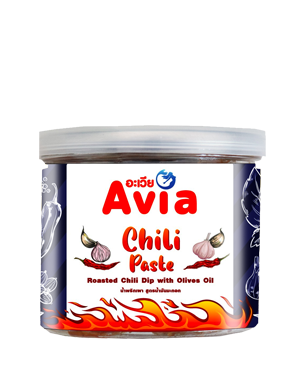
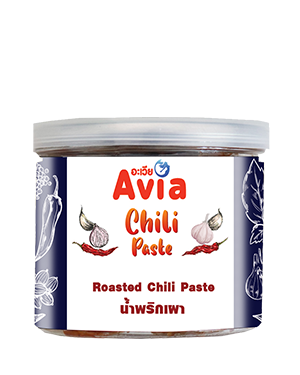
1

Changed region(s): [[0.09, 0.2933, 0.9, 0.9093]]

diff --git a/app/components/home/ProductType.tsx b/app/components/home/ProductType.tsx
@@ -34,16 +34,21 @@ const productTypes: ProductTypeData[] = [
       { name: "พริกแกงเผ็ด Red Curry Paste", img: "/Product-curry-paste-3.png" },
       { name: "พริกแกงมัสมั่น Masman Curry Paste", img: "/Product-curry-paste-4.png" },
       { name: "พริกแกงเขียวหวาน Green Curry Paste", img: "/Product-curry-paste-5.png" },
+      { name: "พริกแกงต้มยำ Tom Yum Curry Paste ", img: "/Product-curry-paste-6.png" },
+
     ],
   },
   {
-    th: "น้ำจิ้ม",
+    th: "น้ำจิ้ม-ซอส",
     type: "SAUCE",
     cover: "/TyeProduct-2.png",
     items: [
       { name: "น้ำจิ้ม แจ่ว Thai Dried Chili Dipping Sauce (Jaew)", img: "/Product-soure-1.png" },
       { name: "น้ำจิ้ม ลูกชิ้น Meatball Dipping Sauce", img: "/Product-soure-2.png" },
       { name: "น้ำจิ้ม ซีฟู๊ด Seafood Dipping Sauce", img: "/Product-soure-3.png" },
+      { name: "ซอส ผัดไทย Pad Thai Sauce", img: "/Product-soure-4.png" },
+      { name: "ซอส กะเพรา Kaprao Sauce", img: "/Product-soure-5.png" },
+      { name: "ซอสปรุงรสอาหารไทย Avia Thai Sauce", img: "/Product-soure-6.png" },
 
     ],
   },
@@ -52,13 +57,15 @@ const productTypes: ProductTypeData[] = [
     type: "CHILI SAUCE",
     cover: "/TyeProduct-3.png",
     items: [
-      { name: "น้ำพริกนรก Spicy Chili Dip", img: "/Product-banner-chili-01.png" },
-      { name: "น้ำพริกเผา สูตรน้ำมันมะกอก Roasted Chili Dip With Olive Oil", img: "/Product-banner-chili-02.png" },
+      { name: "น้ำพริกตาแดง เจ Vegan Red Chili Dip", img: "/Product-banner-chili-01.png" },
+      { name: "น้ำพริกเผา Roasted Chili Paste", img: "/Product-banner-chili-02.png" },
       { name: "น้ำพริกตาแดง Red Chili Dip", img: "/Product-banner-chili-03.png" },
-      { name: "น้ำพริกปลาร้าสับผัดสุก สูตรต้นตำรับ Fermented Fish Spicy Dip (Jaew Bong Original)", img: "/Product-banner-chili-04.png" },
-      { name: "น้ำพริกเผา Roasted Chili Dip", img: "/Product-banner-chili-05.png" },
-      { name: "น้ำพริกเผา กลิ่นแมงดา Chili Dip, Ground Water Bug Smell", img: "/Product-banner-chili-06.png" },
-      { name: "น้ำพริกตาแดง กลิ่นแมงดา Red Chili Dip, Ground Water Bug Smell", img: "/Product-banner-chili-07.png" },
+      { name: "น้ำพริกปลาร้าสับผัดสุก สูตรต้นตำรับ Fermented Fish Spicy Dip (Jaew Bong with coconut oil)", img: "/Product-banner-chili-04.png" },
+      { name: "น้ำพริกนรก ปลาย่าง Spicy Chili Dip", img: "/Product-banner-chili-05.png" },
+      { name: "น้ำพริกเห็ดหอม สูตรมังสวิรัติ Vegan Shiitake Mushroom Chili Paste", img: "/Product-banner-chili-06.png" },
+      { name: "น้ำพริกเผา สูตรต้มยำ Tom Yum Chili Paste", img: "/Product-banner-chili-07.png" },
+      { name: "น้ำพริกเผา สูตรมังสวิรัติ Vegetarian Roasted Chili Paste", img: "/Product-banner-chili-08.png" },
+
 
     ],
   },
